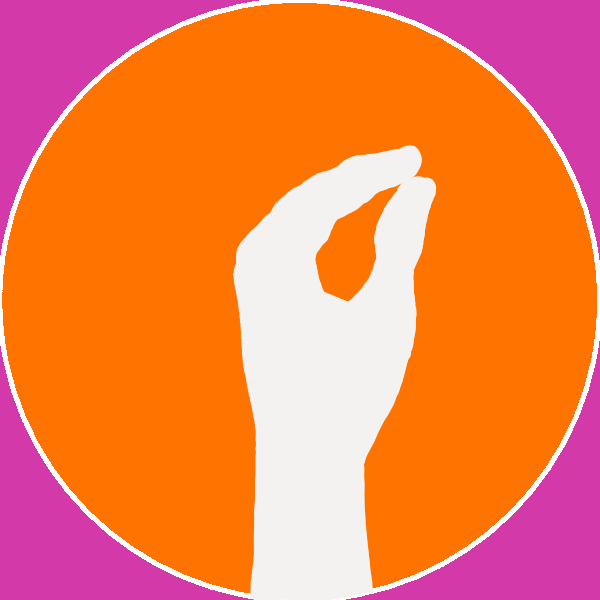
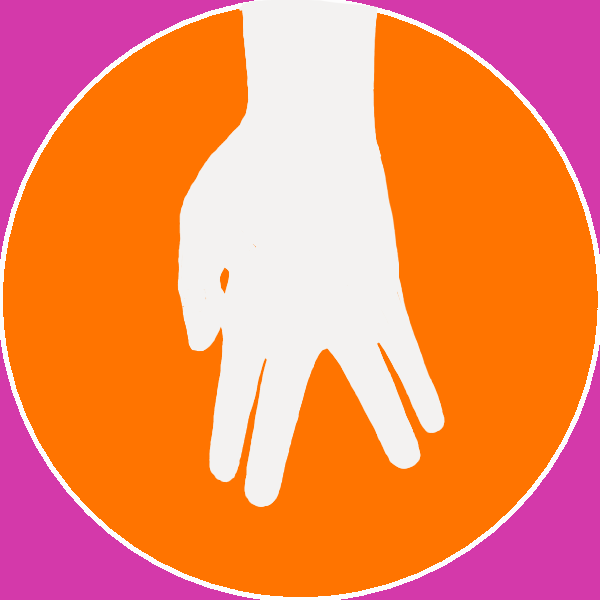
add sets of images for each opponent and the player. js change to target the new set of images

diff --git a/assets/js/script.js b/assets/js/script.js
@@ -35,7 +35,8 @@ moveButtons.forEach(button => {
 
 let selectedOpponent = {
   name: "Opponent",
-  image: ""
+  image: "",
+  folder: "default",
 };
 
 const opponentButtons = document.querySelectorAll(".opponent-button");
@@ -46,6 +47,7 @@ opponentButtons.forEach(button => {
   button.addEventListener("click", () => {
     selectedOpponent.name = button.dataset.name;
     selectedOpponent.image = `assets/images/${button.dataset.img}`;
+    selectedOpponent.folder = button.dataset.name;
     opponentNameDisplay.textContent = selectedOpponent.name;
     opponentAvatar.src = selectedOpponent.image;
     opponentAvatar.alt = selectedOpponent.name;
@@ -65,8 +67,8 @@ function checkWinner(player, computer) {
 }
 
 function updateImgs(playerChoice, computerChoice) {
-    playerChoiceImg.src = `assets/images/${playerChoice}.png`;
-    computerChoiceImg.src = `assets/images/${computerChoice}.png`;
+    playerChoiceImg.src = `assets/images/player/${playerChoice}.png`;
+    computerChoiceImg.src = `assets/images/${selectedOpponent.folder}/${computerChoice}.png`;
     playerChoiceImg.alt = playerChoice;
     computerChoiceImg.alt = computerChoice;
 
